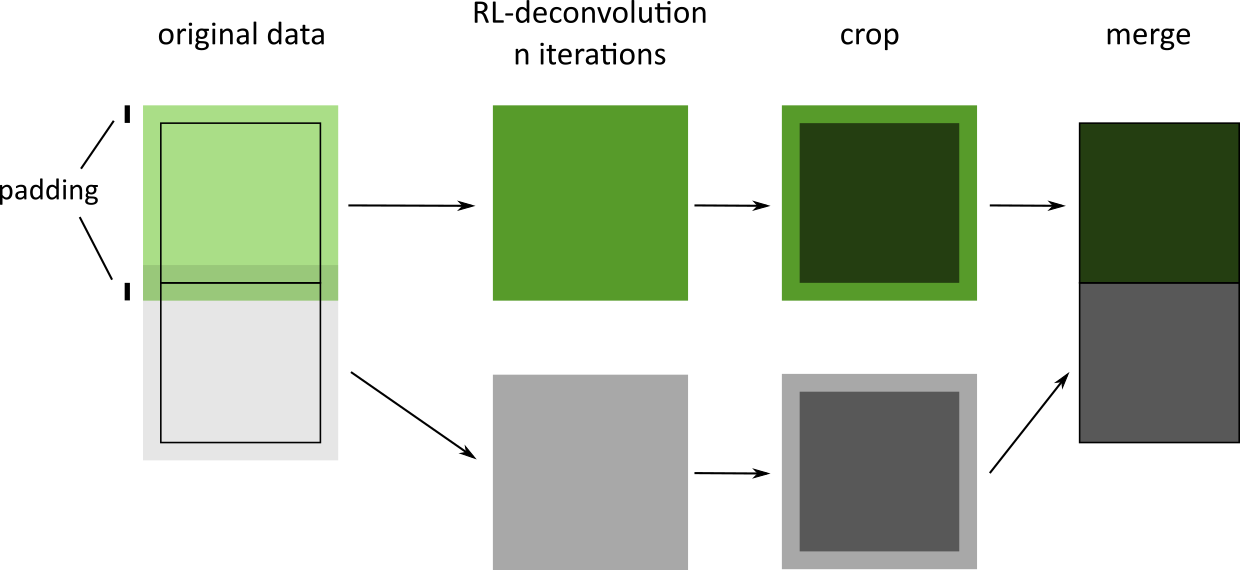
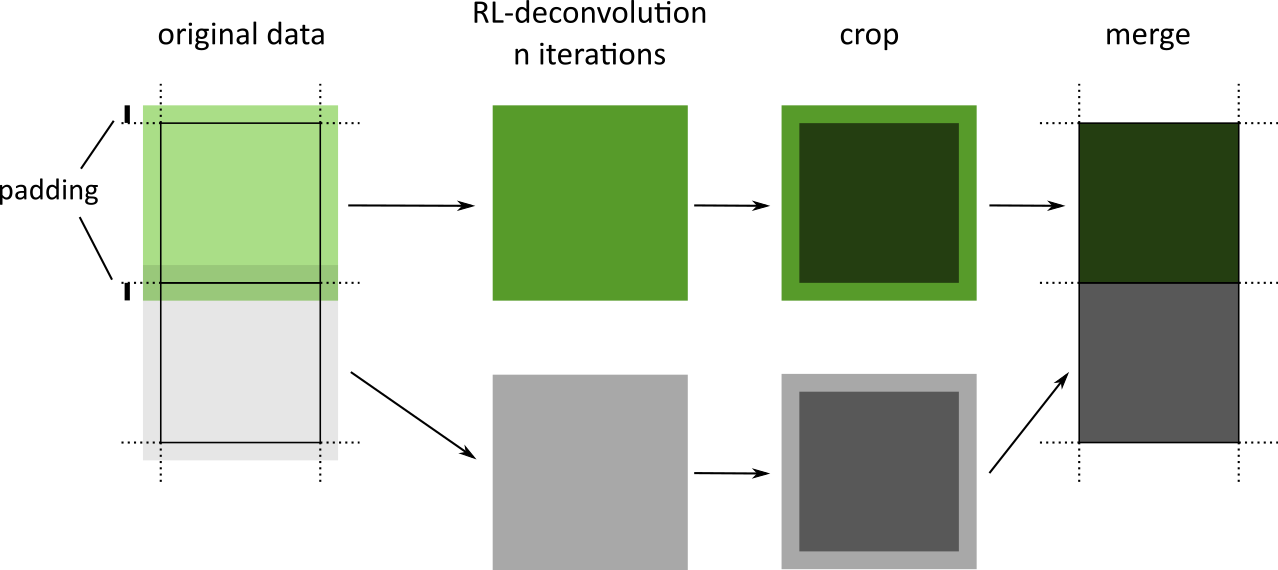
corrections to figure3 and added authors

diff --git a/paper/paper.md b/paper/paper.md
@@ -9,8 +9,14 @@ authors:
   - name: Luís M. A. Perdigão
     orcid: 0000-0002-0534-1512
     affiliation: 1
+  - name: Casper Berger
+    orcid: 0000-0002-0705-3194
+    affiliation: 1
   - name: Neville B.-y. Yee
     orcid: 0000-0003-0349-3958
+    affiliation: 1
+  - name: Michele C. Darrow
+    orcid: 0000-0001-6259-1684
     affiliation: 1
   - name: Mark Basham
     orcid: 0000-0002-8438-1415
@@ -20,12 +26,14 @@ affiliations:
   - name: The Rosalind Franklin Institute
     index: 1
 
-date: 05 August 2020
+date: 25 August 2022
 bibliography: paper.bib
 
 ---
+<!-- This is a comment . If you want to comment this article try to look like me -->
 
 # Summary
+
 Experimental limitations in optics in many microscopy and astronomy instruments result in
 detrimental effects in imaging of objects, which can be generally described mathematically
 as a convolution of the real object image with the point spread function that characterizes
@@ -38,7 +46,6 @@ volumetric (3D) data easier to run, very fast (by exploiting GPU computing capab
 and automatic handling of hardware limitations for large datasets.
 It can also be used programmatically in Python/numpy using conda or PyPi package managers,
 and is also a simple napari plugin.
-
 
 # Statement of need
 
@@ -64,7 +71,6 @@ $$ EI_{n+1} = EI_{n} \times \left [ { FSP \ast \frac{MI}{PSF \ast EI_{n}} } \rig
 
 with FSP being the *flipped* form of the PSF discrete data and $\ast$ representing the multidimensional convolution operation.
 This formula is also valid in higher dimensions, maintaining the convolution, PSF flipping and element-wise multiplication. We now focus our discussion here the three dimensional case and how to implement and optimize this calculation.
-
 
 Experimental three-dimensional data is becoming increasingly common
 in tomography and light-sheet microscopy being two notable examples.
@@ -93,19 +99,22 @@ An additional functionality that is included is the ability to monitor calculati
 
 It is often desireable to filter large 3D datasets by means of RL-deconvolution, as quick as possible, such as while running an experiment to help locate precise 3D position of beads or cells in light microscopy data, which is required, before proceeding to the next experimental step. GPU can boost processing speeds but large datasets may pose a problem with limited GPU memory resources. Redlionfish, by default tries to use default GPU and without chunking data but if out-of-memory error occurs it will attempt to use block deconvolution, whereby the data is split into smaller volumes and the full RL-deconvolution is run independently, and later merged into a single volume [@lee_block-iterative_2015] (\autoref{fig:fig3}). Unfortunately the nature of the deconvolution algorithm requires significant amount data from neighbouring volumes which means that padding must be used and edge-effects from each block may affect the results. This is currently implemented in parameter `psfpaddingfract` (set to 1.2 as default) in function `block_RLDeconv3DReiknaOCL4()` in file `RLDeconv3DReiknaOCL.py`. This parameter sets how much of the relative size of the PSF data, each of the block edges will be cropped and merged to the final result data volume.
 
-![Simplified schematic of the block algorithm for Richardson-Lucy deconvolution. Data is split into extended blocks. Complete iterative calculation is performed for each block, then padding is cropped and merged to a single data volume.\label{fig:fig3}](Figure3.png)
+![Simplified schematic of the block algorithm for Richardson-Lucy deconvolution. Data is split into extended blocks. The complete iterative calculation is performed in each block. Then the result is cropped and merged to a single data volume.\label{fig:fig3}](Figure3.png)
 
 It is known in RL-deconvolution that edge errors propagate innwards. Considering the one-dimensional case, using finite width of data ($w_{data}$) and PSF ($w_{PSF}$), and remembering that there are two discrete convolutions in each iteration of the RL algorithm, the 'valid' region of the reduces by $2w_{PSF}-2$ per iteration. For example, imagine that we can split into blocks of data with width of 512 and our PSF is 32, then a typical 10 iterations would mean that the valid region is reduced to $512-10\times 2(2\times 32 -2) = -108$, meaning that the whole result would be invalid. The 'ideal' solution to get the highest precision in the RL-deconvolution is to run with very low number of iterations, often insuficient to restore data to an acceptable level. In fact, in most cases where RL-deconvolution is used, users do apply several iterations, well beyond the limit established for getting positive size valid regions, and sometimes also using large size PSF's, only to collect the result without bothering to crop the 'valid'-only region. Theoretically the whole result is invalid but despite the reduced precision of using this method, the results obtained are often accepted and used for further analysis. There are ways that the loss of quality can be mitigated, such as using edge normalisation and block-interlacing methods [@lee_block-iterative_2015], that work well in many cases such as with gaussian PSFs and with camera photos, however these are not mathematically correct. The reader is advised to check the repository notebooks examples that conduct deeper analysis of the number of iterations and psf size in reducing the valid region based in a precision criteria. In the blocked processing algorithm, however each block will innevitably experience these edge effects, which may or may not be visible.
 
 Several solutions to mitigate these rapid reduction of the valid region were carefully considered but none of them was considered feasible as it would require significantly higher computer processing and memory consumption. This precision issue will be addressed in future versions at expense of speed in case user requires.
 
 # Social acceptance
+
 This package became instantly popular from the first day it was published as a napari plugin in PyPI, as shared by other scientists on Twitter and discussed in image.sc forum. There are other free software RL-deconvolution solutions available and users are encouraged to try and compare [@sage_deconvolutionlab2_2017; @lambert_pycudadecon_2022; @noauthor_maweigertgputools_nodate; @haase_clij_2020]. RedLionfish combines many good aspects by being user-friendly through napari, it is reasonably fast, it is free and easily available, and it simply completes the job regardless of your PC.
 
 # Availability
+
 The RedLionfish source code is wrtitten in python is available in github (https://github.com/rosalindfranklininstitute/RedLionfish). It is easily installable in anaconda python environments from conda-forge channel or using pip (PyPI) with the package name being `redlionfish`.
 
 # Acknowledgments
+
 All authors acknowledge funding from Wellcome Trust grants 220526/Z/20/Z and 212980/Z/18/Z.
 
 # References
